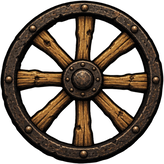
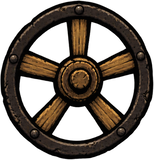
Generate larger campsites with diagonal movement and open-ground building

diff --git a/README.md b/README.md
@@ -15,7 +15,9 @@ Open the repository’s `project.godot` in Godot 4 and press **F5**. This single
 - Hover over an enemy to preview its approach and possible target. The heroes share a turn and spend their own budgets.
 - Press **Space** or click **End Turn**. Ending a turn outside the circular firelight costs 1 HP.
 - The hero who lands the killing blow earns 4 XP. Every party member earns 6 XP for a cleared wave. Ballista kills grant no individual XP. Each hero chooses their own upgrades at a wave break or before dawn. Most upgrades have three ranks, and effective bow range caps at ten tiles including equipment. If unlocked, toggle **Pinning Shot** and click an enemy to slow it.
-- Build walls or ballistae on free lit tiles between waves. Click an existing wall or ballista during preparation to open its on-map **Upgrade**, **Repair**, and **Destroy** controls. Ballista upgrades increase range and damage, and wall upgrades increase maximum HP. Repair costs 1 supply and restores full HP. Destroy returns half the build and upgrade cost, rounded down. Adjacent wall segments join automatically.
+- Build walls or ballistae on open tiles between waves, including in darkness. Darkness damages heroes at the end of their turn. Creatures and defenses can stay in darkness safely. Click an existing wall or ballista during preparation to open its on-map **Upgrade**, **Repair**, and **Destroy** controls. Ballista upgrades increase range and damage, and wall upgrades increase maximum HP. Repair costs 1 supply and restores full HP. Destroy returns half the build and upgrade cost, rounded down. Adjacent wall segments join automatically.
+- Camps use a 27 × 21 board. Each campsite rolls a ruined church, ruined home, cliff, ravine, or river to shelter the parked wagon and close one approach. Trees, rocks, enemy starting positions, and wave compositions vary between camps. The Hollow Maw still arrives in the final wave.
+- Heroes and creatures can move diagonally for one movement point. Both sides of a diagonal must be clear, including for the Hollow Maw's two-tile-wide footprint.
 - Gear names are colored by rarity. Common (white) is starting gear, and Uncommon (green) is standard merchant and salvage gear. Regular drops have a 20% chance to be Rare (blue) and a 5% chance to be Epic (purple). These tiers roll a prefix suited to the item slot, such as Keen for damage or Stout for health. The Hollow Maw is the only source of Legendary (orange-red) gear, with a 5% chance per defeat. Mawforged weapons add 2 damage and restore 1 HP on a hero's killing blow. Mawforged armor adds 4 maximum HP and 1 melee guard.
 - Each class equips its own weapon type. Armor and trinkets are shared equipment types. The trader sells a Trail Charm (+1 movement each turn), and Stoneford salvage can include an Ember Charm (restore 2 HP to its living wearer when a wave clears).
 - Each cleared wave awards 4 supplies. Unspent supplies carry into the next wave and travel with the caravan to the next campsite.
